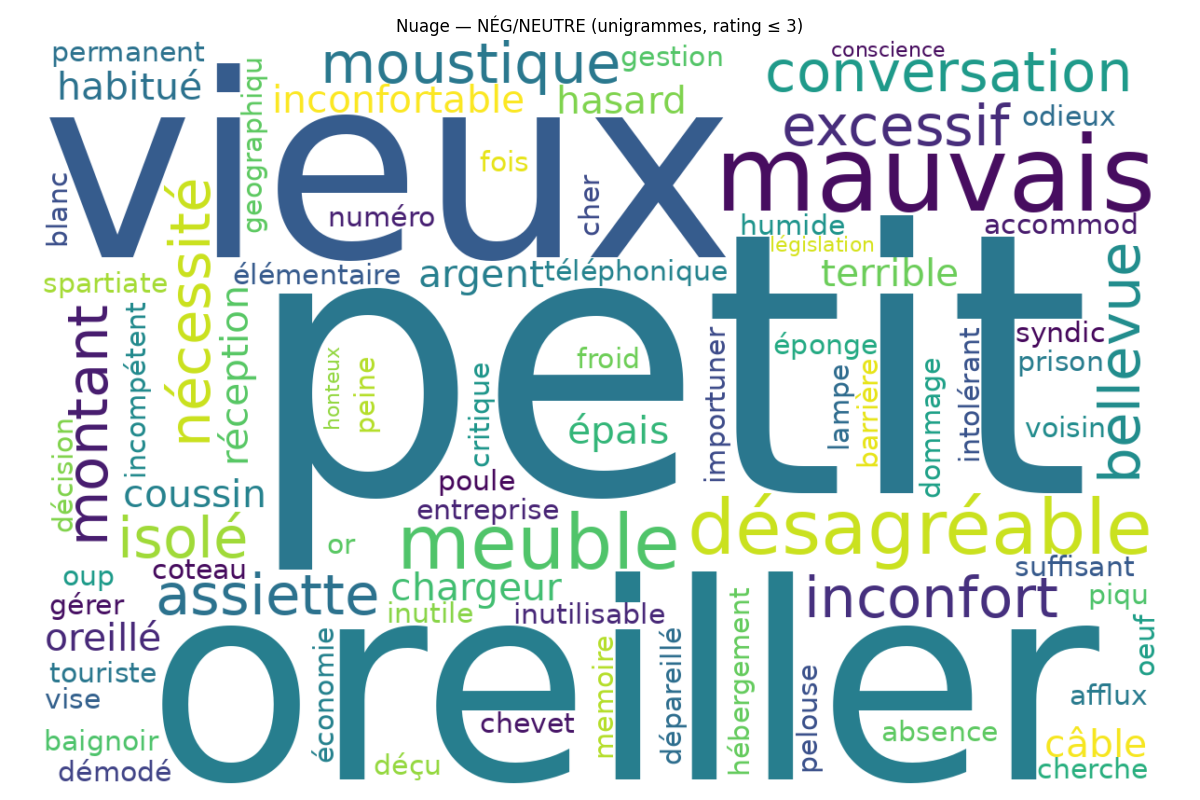
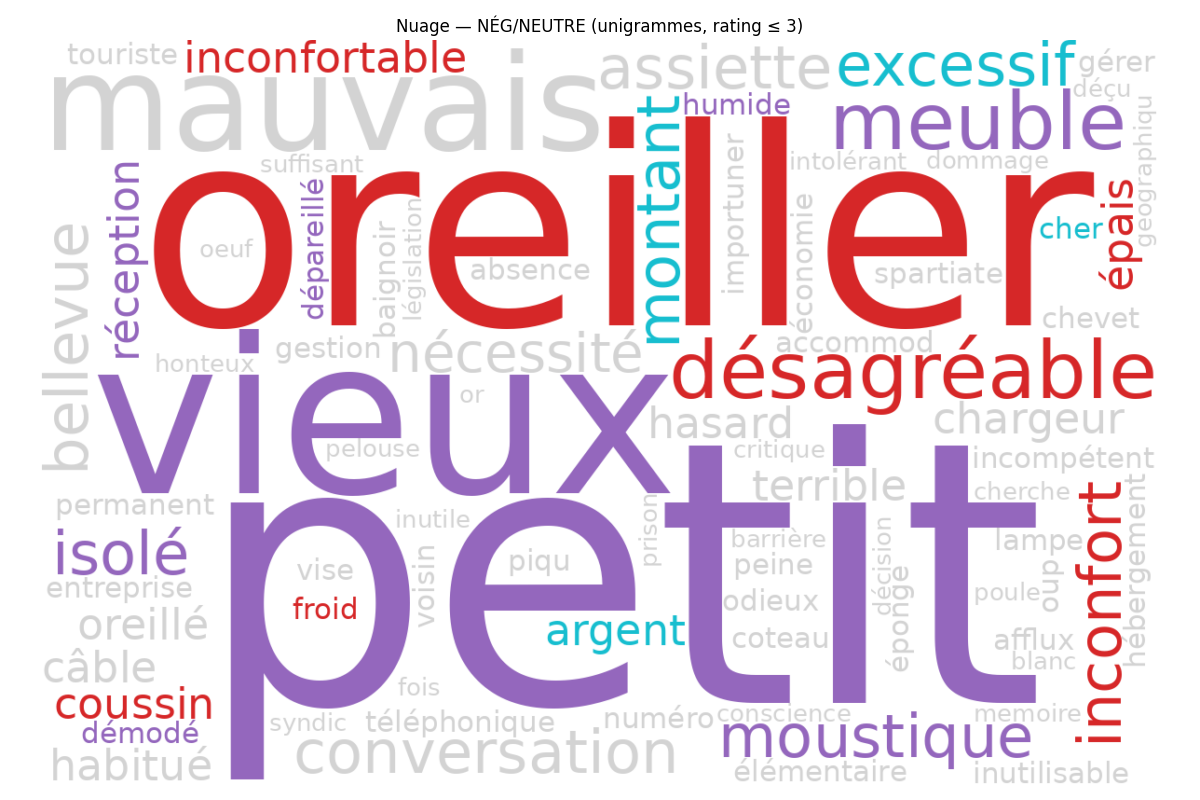
Highlight groups inside wordclouds

diff --git a/src/analyze_nlp_data.py b/src/analyze_nlp_data.py
@@ -9,7 +9,7 @@ comptages (n-grammes), filtres de polarité et visualisation (wordclouds).
 import logging
 from collections import Counter
 from pathlib import Path
-from typing import Iterable, Tuple, Set
+from typing import Iterable, Tuple, Set, List
 
 import matplotlib.pyplot as plt
 import pandas as pd
@@ -18,6 +18,8 @@ from matplotlib import font_manager
 from nltk.corpus import stopwords
 from wordcloud import WordCloud
 from vaderSentiment_fr.vaderSentiment import SentimentIntensityAnalyzer
+
+import random
 
 logger = logging.getLogger(__name__)
 
@@ -249,6 +251,75 @@ def plot_wordcloud(counter: Counter, title: str, max_words: int = 200) -> None:
     plt.show()
 
 
+# --- Colorisation par groupes (couleurs fixes pour certains mots, aléatoire pour le reste)
+
+def _make_color_func_groups(groups: List[tuple[set[str], str]], seed: int = 7):
+    """Construit une color_func pour WordCloud qui colore en fixe les mots des
+    groupes fournis et laisse une couleur aléatoire (mais stable) pour les autres.
+
+    - groups: liste de tuples (set_mots, "#RRGGBB"). Les mots sont comparés en minuscule.
+    - seed: graine pour rendre l'aléatoire reproductible.
+    """
+    # Dictionnaire mot->couleur
+    group_color: dict[str, str] = {}
+    for gset, color in (groups or []):
+        for w in gset:
+            group_color[str(w).lower()] = color
+
+    rng = random.Random(seed)
+    palette = [
+        "#1f77b4", "#ff7f0e", "#2ca02c", "#d62728", "#9467bd",
+        "#8c564b", "#e377c2", "#7f7f7f", "#bcbd22", "#17becf",
+        "#000000"
+    ]
+
+    def color_func(word, font_size, position, orientation, random_state=None, **kwargs):
+        w = (word or "").lower()
+        if w in group_color:
+            return group_color[w]
+        #return palette[rng.randrange(len(palette))]
+        return "#d3d3d3" 
+
+    return color_func
+
+
+def plot_wordcloud_colored(
+    counter: Counter,
+    title: str,
+    groups: List[tuple[set[str], str]] | None = None,
+    *,
+    max_words: int = 200,
+) -> None:
+    """Affiche un nuage de mots avec couleurs imposées pour les groupes
+    et couleurs aléatoires pour les autres termes.
+    """
+    if not counter:
+        logger.warning("Pas de données pour %s", title)
+        return
+
+    font_path = font_manager.findfont(font_manager.FontProperties(family="DejaVu Sans"))
+    wc = WordCloud(
+        width=1200,
+        height=800,
+        background_color="white",
+        max_words=max_words,
+        collocations=False,
+        font_path=font_path,
+        random_state=7,
+    ).generate_from_frequencies(dict(counter))
+
+    if groups:
+        color_func = _make_color_func_groups(groups, seed=7)
+        wc = wc.recolor(color_func=color_func, random_state=7)
+
+    plt.figure(figsize=(12, 8))
+    plt.imshow(wc, interpolation="bilinear")
+    plt.axis("off")
+    plt.title(title)
+    plt.tight_layout()
+    plt.show()
+
+
 def build_reviews_df(filepath: str | Path) -> pd.DataFrame:
     """
     Construit un DataFrame minimal des avis à partir d’un Excel :
@@ -317,13 +388,16 @@ def plot_wordclouds_by_rating_with_polarity(
     max_words: int = 200,
     use_bigrams: bool = True,
     drop_commons: bool = True,
-    commons_min_count: int = 1,
+    commons_min_count: int = 2,
+    pos_groups: list[tuple[set[str], str]] | None = None,
+    neg_groups: list[tuple[set[str], str]] | None = None,
 ) -> None:
     """
     Génére des nuages de mots basés sur le rating :
     - POSITIF : rating >= 4
     - NEG/NEUTRE : rating <= 3
-    Pipeline : preprocess -> ngram -> filtre polarité -> (option) retrait des communs -> wordcloud
+    Pipeline : preprocess -> ngram -> filtre polarité -> (option) retrait des communs -> wordcloud.
+    Si pos_groups/neg_groups sont None, la colorisation est aléatoire (WordCloud par défaut).
     """
     logger.info("Nuages par rating avec filtre de polarité… (drop_commons=%s, min_count=%d)", drop_commons, commons_min_count)
 
@@ -348,12 +422,12 @@ def plot_wordclouds_by_rating_with_polarity(
 
         # Tracé
         if c_pos_uni:
-            plot_wordcloud(c_pos_uni, "Nuage — POSITIF (unigrammes, rating ≥ 4)", max_words)
+            plot_wordcloud_colored(c_pos_uni, "Nuage — POSITIF (unigrammes, rating ≥ 4)", groups=pos_groups, max_words=max_words)
         else:
             logger.warning("Aucun terme positif après filtrages (unigrammes).")
 
         if c_neg_uni:
-            plot_wordcloud(c_neg_uni, "Nuage — NÉG/NEUTRE (unigrammes, rating ≤ 3)", max_words)
+            plot_wordcloud_colored(c_neg_uni, "Nuage — NÉG/NEUTRE (unigrammes, rating ≤ 3)", groups=neg_groups, max_words=max_words)
         else:
             logger.warning("Aucun terme négatif/neutre après filtrages (unigrammes).")
 
@@ -369,14 +443,48 @@ def plot_wordclouds_by_rating_with_polarity(
             c_pos_bi, c_neg_bi = drop_common_terms(c_pos_bi, c_neg_bi, min_count=commons_min_count)
 
         if c_pos_bi:
-            plot_wordcloud(c_pos_bi, "Nuage — POSITIF (bigrammes, rating ≥ 4)", max_words)
+            plot_wordcloud_colored(c_pos_bi, "Nuage — POSITIF (bigrammes, rating ≥ 4)", groups=pos_groups, max_words=max_words)
         else:
             logger.warning("Aucun terme positif après filtrages (bigrammes).")
 
         if c_neg_bi:
-            plot_wordcloud(c_neg_bi, "Nuage — NÉG/NEUTRE (bigrammes, rating ≤ 3)", max_words)
+            plot_wordcloud_colored(c_neg_bi, "Nuage — NÉG/NEUTRE (bigrammes, rating ≤ 3)", groups=neg_groups, max_words=max_words)
         else:
             logger.warning("Aucun terme négatif/neutre après filtrages (bigrammes).")
+
+
+# ---------- Groupes par défaut (après analyse des données, pour coloriser les nuages) ----------
+POS_G1 = {  # Propreté / état irréprochable
+    "propre", "impeccable", "irréprochable", "propreté", "nickel", "net",
+    "propreté", "soigné"
+}
+
+POS_G2 = {  # Localisation / proximité atouts (thermes/lac/centre)
+    "thermes", "lac", "proximité", "proche", "pied", "emplacement",
+    "centre", "centre-ville", "gare", "bus", "quartier", "cadre", "vue"
+}
+
+POS_G3 = {  # Relation / service hôte
+    "hôte", "accueillant", "chaleureux", "disponible", "écoute", "serviable",
+    "réactif", "gentil", "attention", "attentif", "bienveillance", "accueil"
+}
+
+NEG_G1 = {  # Literie / confort de sommeil
+    "oreiller", "coussin", "lit", "inconfort", "inconfortable", "désagréable",
+    "sommeil", "matelas", "froid", "bruyant", "épais"
+}
+
+NEG_G2 = {  # Vétusté / état / équipements
+    "vieux", "vétuste", "meuble", "dépareillé", "usé", "étroit", "sombre",
+    "petit", "humide", "démodé", "réception", "moustique", "isolé"
+}
+
+NEG_G3 = {  # Prix / valeur perçue
+    "excessif", "montant", "cher", "prix", "argent", "coût", "onéreux"
+}
+
+pos_groups = [(POS_G1, "#1f77b4"), (POS_G2, "#2ca02c"), (POS_G3, "#ff7f0e")]
+neg_groups = [(NEG_G1, "#d62728"), (NEG_G2, "#9467bd"), (NEG_G3, "#17becf")]
 
 def check_word_polarity(word: str) -> str:
     """

diff --git a/src/main.py b/src/main.py
@@ -22,6 +22,8 @@ from src.analyze_nlp_data import (
     build_reviews_df,
     inspect_lexicon_coverage,
     plot_wordclouds_by_rating_with_polarity,
+    pos_groups,
+    neg_groups    
 )
 
 # ----------------------------- Logging global ---------------------------------
@@ -82,5 +84,5 @@ if __name__ == "__main__":
     inspect_lexicon_coverage(df_reviews, top_k=40)
 
     # Génère les nuages (unigrams + bigrams) par polarité (basé sur le rating)
-    plot_wordclouds_by_rating_with_polarity(df_reviews, max_words=200, use_bigrams=True)
+    plot_wordclouds_by_rating_with_polarity(df_reviews, max_words=200, use_bigrams=False, commons_min_count=1, pos_groups=pos_groups, neg_groups=neg_groups)
     
